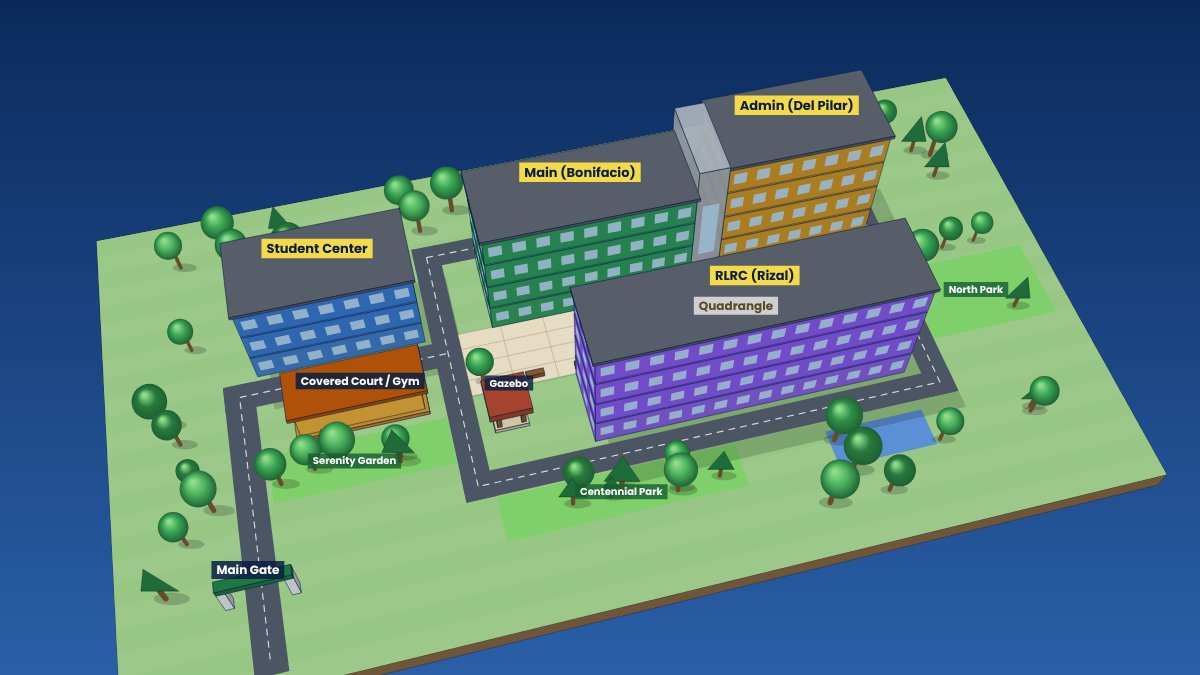
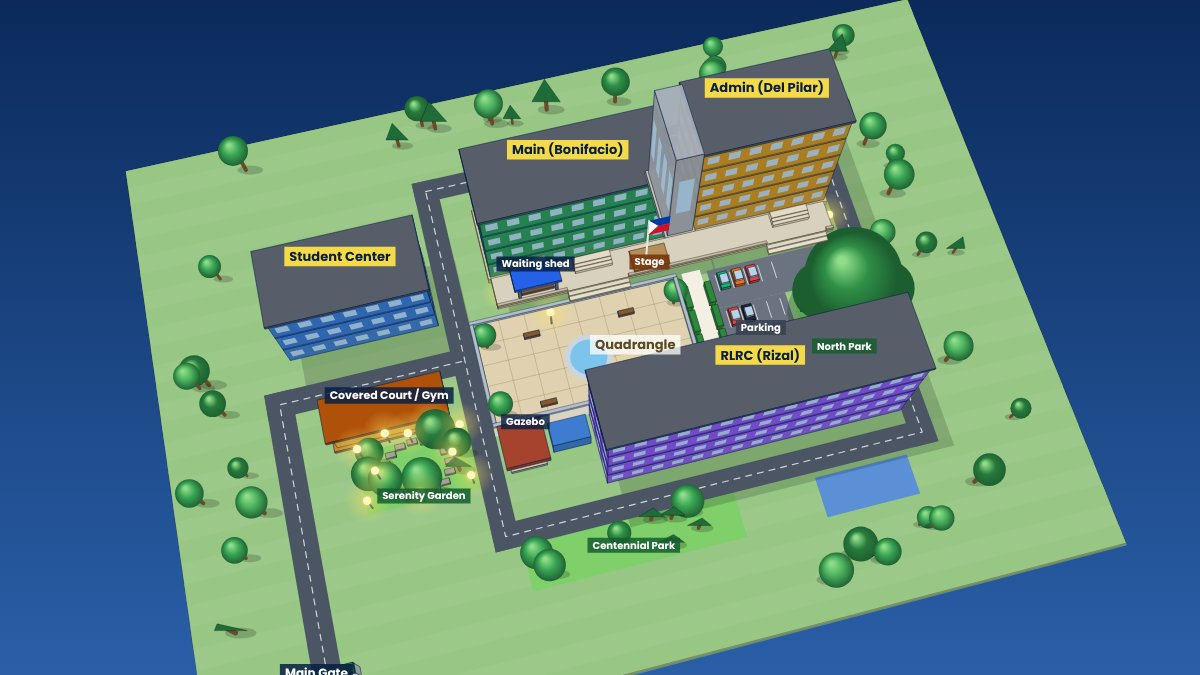
map updated

diff --git a/PLMUN Go/map3d.html b/PLMUN Go/map3d.html
@@ -84,13 +84,14 @@
        x = east, z = south. The main gate is at the bottom-left. Change a number to move or resize a building. */
     var G = {
       mabini:    { x0: 9,  x1: 26, z0: 24, z1: 32.5, floors: 3, color: '#3b7dd8', mode: 'north', label: 'Student Center' },
-      bonifacio: { x0: 33, x1: 54, z0: 24, z1: 32.5, floors: 4, color: '#2f9e63', mode: 'two',   label: 'Main (Bonifacio)' },
-      delpilar:  { x0: 57, x1: 73, z0: 24, z1: 32.5, floors: 5, color: '#d19a2a', mode: 'two',   label: 'Admin (Del Pilar)' },
+      bonifacio: { x0: 33, x1: 54, z0: 20, z1: 28.5, floors: 4, color: '#2f9e63', mode: 'two',   label: 'Main (Bonifacio)' },
+      delpilar:  { x0: 57, x1: 73, z0: 20, z1: 28.5, floors: 5, color: '#d19a2a', mode: 'two',   label: 'Admin (Del Pilar)' },
       rizal:     { x0: 40, x1: 73.5, z0: 47, z1: 55,   floors: 4, color: '#8b5cf6', mode: 'south', label: 'RLRC (Rizal)', flip: true }
     };
     var ORDER = ['mabini', 'bonifacio', 'delpilar', 'rizal'];
     var NAMES = { mabini: 'Student Center', bonifacio: 'Main (Bonifacio)', delpilar: 'Admin (Del Pilar)', rizal: 'RLRC (Rizal)' };
-    var WZ = 37.4, QZ = 34.2, RZ = 46.2, GATE = { x: 7, z: 68 };   // road in the west pocket, walkway in front of Main/Admin, walkway in front of the RLRC
+    var BASEY = { mabini: 0, bonifacio: 0.9, delpilar: 0.9, rizal: 0 };   // Main and Admin stand a little higher than the rest
+    var WZ = 37.4, QZ = 33.7, RZ = 46.2, GATE = { x: 7, z: 68 };   // road in the west pocket, walkway in front of Main/Admin, walkway in front of the RLRC
 
     function rowDepth(g) { return 3; }
     // rectangle of one cell on a floor plan
@@ -111,7 +112,7 @@
     }
 
     /* ===== 2. camera ===== */
-    var cam = { yaw: 0.25, pitch: 1.22, dist: 138, tx: 43, ty: 0, tz: 43 }, goal = null;
+    var cam = { yaw: 0.25, pitch: 1.22, dist: 142, tx: 43, ty: 0, tz: 40 }, goal = null;
     var W = 0, Hh = 0, dpr = 1, FOV = 1, CX = 0, CY = 0;
     function resize() {
       dpr = Math.min(window.devicePixelRatio || 1, 2);
@@ -234,9 +235,9 @@
     var TREES = (function () {
       var out = [], id = 1;
       function scatter(x0, x1, z0, z1, n) { for (var i = 0; i < n; i++) { id++; out.push({ x: x0 + rnd(id) * (x1 - x0), z: z0 + rnd(id + 99) * (z1 - z0), h: 3.6 + rnd(id + 7) * 2.6, pine: rnd(id + 3) > 0.7, c: Math.floor(rnd(id + 11) * 4) }); } }
-      scatter(-3, 4.2, 22, 70, 8);         // west edge
-      scatter(2, 86, 14.5, 20, 16);        // behind the buildings
-      scatter(77, 88, 20, 70, 10);         // east side
+      scatter(-3, 4.2, 12, 70, 9);         // west edge
+      scatter(2, 86, 6, 12.5, 16);        // behind the buildings
+      scatter(77, 88, 10, 70, 10);         // east side
       scatter(30, 52, 60, 64, 8);          // Centennial Park
       scatter(56, 76, 66, 71, 6);
       // Serenity Garden: lots of trees around the stone seats
@@ -244,7 +245,7 @@
       // quadrangle corners
       [[30.8, 36.4], [30.8, 44.6], [52.6, 36.4], [52.6, 44.6]].forEach(function (p) { id++; out.push({ x: p[0], z: p[1], h: 4.4, pine: false, c: 1 }); });
       // the BIG shade tree of North Park
-      out.push({ x: 69.8, z: 40.6, h: 12.5, pine: false, c: 0, big: true });
+      out.push({ x: 69.8, z: 42.2, h: 12.5, pine: false, c: 0, big: true });
       return out;
     })();
     var CANOPY = ['#2f8f46', '#3aa655', '#287a3c', '#4db35f'];
@@ -276,14 +277,14 @@
       else flat(Math.min(x0, x1) - h, Math.max(x0, x1) + h, z0 - h, z0 + h, 0.05, '#4b5563');
     }
     // sunken quadrangle
-    var QUAD = { x0: 29.8, x1: 53.4, z0: 35.4, z1: 45.4 };
+    var QUAD = { x0: 29.8, x1: 53.4, z0: 33.4, z1: 45.4 };
     function drawGround() {
-      drawBox(-6, 92, -2.2, 0, 11, 75, '#8b6b4a', 1, { stroke: 'rgba(0,0,0,.25)' });
-      flat(-6, 92, 11, 75, 0, '#9cc98a');
-      for (var i = 0; i < 14; i++) flat(-6, 92, 11 + i * 4.6, 13.3 + i * 4.6, 0.01, '#94c382', 0.55);
+      drawBox(-6, 92, -2.2, 0, 4, 75, '#8b6b4a', 1, { stroke: 'rgba(0,0,0,.25)' });
+      flat(-6, 92, 4, 75, 0, '#9cc98a');
+      for (var i = 0; i < 16; i++) flat(-6, 92, 4 + i * 4.6, 6.3 + i * 4.6, 0.01, '#94c382', 0.55);
       // parks / gardens
       flat(14.2, 26.6, 45, 52, 0.03, '#7fcf6a');                 // Serenity Garden
-      flat(66, 73.6, 35.6, 46, 0.03, '#79cf64');                 // North Park
+      flat(66, 73.6, 38.4, 46.2, 0.03, '#79cf64');               // North Park
       flat(29.5, 53, 59.4, 64.4, 0.03, '#7fcf6a');               // Centennial Park
       flat(62, 72.5, 60, 64.5, 0.04, '#5b8fd6');
       // building shadows
@@ -291,22 +292,21 @@
       // ring road (as on the university map)
       roadSeg(7, 70, 7, WZ, 3);
       roadSeg(7, WZ, 28, WZ, 3);
-      roadSeg(28, 22, 28, 58, 2.8);
-      roadSeg(28, 22, 75, 22, 2.8);
-      roadSeg(75, 22, 75, 58, 2.8);
+      roadSeg(28, 15.5, 28, 58, 2.8);
+      roadSeg(28, 15.5, 75, 15.5, 2.8);
+      roadSeg(75, 15.5, 75, 58, 2.8);
       roadSeg(28, 58, 75, 58, 2.8);
-      [[[7, 70], [7, WZ], [28, WZ]], [[28, 22], [75, 22], [75, 58], [28, 58], [28, 22]]].forEach(function (p) {
+      [[[7, 70], [7, WZ], [28, WZ]], [[28, 15.5], [75, 15.5], [75, 58], [28, 58], [28, 15.5]]].forEach(function (p) {
         ctx.setLineDash([6, 6]); stroke3(p, 'rgba(255,255,255,.75)', 1.2, 0.06); ctx.setLineDash([]);
       });
-      // walkways in front of Main/Admin and in front of the RLRC
-      flat(29.4, 73.6, 32.5, QUAD.z0, 0.06, '#d9d3c3');
+      // walkway in front of the RLRC
       flat(29.4, 73.6, QUAD.z1, 46.9, 0.06, '#d9d3c3');
-      // parking lot in front of Del Pilar (employees' cars)
-      flat(57.4, 73.6, 32.5, 35.4, 0.07, '#6b7280');
-      flat(57.4, 65.4, 35.4, 46, 0.07, '#6b7280');
+      // parking lot in front of Del Pilar (employees' cars): at the SAME low level as the quadrangle
+      flat(57.4, 73.6, 33.4, 38.2, -0.3, '#6b7280');
+      flat(57.4, 65.4, 38.2, 46, -0.3, '#6b7280');
       ctx.strokeStyle = 'rgba(255,255,255,.7)'; ctx.lineWidth = 1;
-      for (var px = 58.2; px < 65.3; px += 1.6) { var a1 = proj(px, 0.08, 36.4), a2 = proj(px, 0.08, 38.4); ctx.beginPath(); ctx.moveTo(a1.x, a1.y); ctx.lineTo(a2.x, a2.y); ctx.stroke(); var c1 = proj(px, 0.08, 42.6), c2 = proj(px, 0.08, 44.6); ctx.beginPath(); ctx.moveTo(c1.x, c1.y); ctx.lineTo(c2.x, c2.y); ctx.stroke(); }
-      for (var qx = 58.4; qx < 73.5; qx += 1.7) { if (qx > 66.2 && qx < 71) continue; var b1 = proj(qx, 0.08, 33.0), b2 = proj(qx, 0.08, 34.7); ctx.beginPath(); ctx.moveTo(b1.x, b1.y); ctx.lineTo(b2.x, b2.y); ctx.stroke(); }
+      for (var px = 58.2; px < 65.3; px += 1.6) { var c1 = proj(px, -0.28, 38.8), c2 = proj(px, -0.28, 40.8); ctx.beginPath(); ctx.moveTo(c1.x, c1.y); ctx.lineTo(c2.x, c2.y); ctx.stroke(); var d1 = proj(px, -0.28, 42.8), d2 = proj(px, -0.28, 44.8); ctx.beginPath(); ctx.moveTo(d1.x, d1.y); ctx.lineTo(d2.x, d2.y); ctx.stroke(); }
+      for (var qx = 58.2; qx < 73.5; qx += 1.7) { if (qx > 65.8 && qx < 71.4) continue; var b1 = proj(qx, -0.28, 34.2), b2 = proj(qx, -0.28, 36.2); ctx.beginPath(); ctx.moveTo(b1.x, b1.y); ctx.lineTo(b2.x, b2.y); ctx.stroke(); }
       // the QUADRANGLE: big, paved and LOWER than the walkways around it
       var qb = QUAD, cu = '#cbd5e1';
       flat(qb.x0, qb.x1, qb.z0, qb.z1, -0.3, '#e0d2b0');
@@ -314,7 +314,7 @@
       for (var x = qb.x0; x <= qb.x1 + 0.1; x += 2.95) { var p1 = proj(x, -0.28, qb.z0), p2 = proj(x, -0.28, qb.z1); ctx.beginPath(); ctx.moveTo(p1.x, p1.y); ctx.lineTo(p2.x, p2.y); ctx.stroke(); }
       for (var z = qb.z0; z <= qb.z1 + 0.1; z += 2.5) { var q1 = proj(qb.x0, -0.28, z), q2 = proj(qb.x1, -0.28, z); ctx.beginPath(); ctx.moveTo(q1.x, q1.y); ctx.lineTo(q2.x, q2.y); ctx.stroke(); }
       // the walkway to the RLRC through the gap between Main and Admin
-      flat(54.4, 56.6, 32.5, 46.9, 0.08, '#f3efe3');
+      flat(54.4, 56.6, 33.2, 46.9, 0.08, '#f3efe3');
       // fountain
       var fc = [41.6, 40.4], ring = [], ring2 = [];
       for (var k = 0; k < 24; k++) { var an = k / 24 * 6.2832; ring.push([fc[0] + Math.cos(an) * 2.7, fc[1] + Math.sin(an) * 2.7]); ring2.push([fc[0] + Math.cos(an) * 2.1, fc[1] + Math.sin(an) * 2.1]); }
@@ -323,8 +323,8 @@
       var qp = proj(47, 0, 40.4); labels.push({ t: 'Quadrangle', x: qp.x, y: qp.y, s: 13, c: '#5b4a22', bg: 'rgba(255,255,255,.75)' });
       var sp = proj(20.4, 0.1, 51.6); labels.push({ t: 'Serenity Garden', x: sp.x, y: sp.y, s: 10, c: '#fff', bg: 'rgba(21,94,47,.85)' });
       var cp2 = proj(41, 0.1, 62.4); labels.push({ t: 'Centennial Park', x: cp2.x, y: cp2.y, s: 10, c: '#fff', bg: 'rgba(21,94,47,.85)' });
-      var np = proj(69.8, 0.1, 45.4); labels.push({ t: 'North Park', x: np.x, y: np.y, s: 10, c: '#fff', bg: 'rgba(21,94,47,.85)' });
-      var pk = proj(61.4, 0.1, 40.6); labels.push({ t: 'Parking', x: pk.x, y: pk.y, s: 10, c: '#fff', bg: 'rgba(55,65,81,.85)' });
+      var np = proj(69.8, 0.1, 46.4); labels.push({ t: 'North Park', x: np.x, y: np.y, s: 10, c: '#fff', bg: 'rgba(21,94,47,.85)' });
+      var pk = proj(61.4, -0.2, 41.8); labels.push({ t: 'Parking', x: pk.x, y: pk.y, s: 10, c: '#fff', bg: 'rgba(55,65,81,.85)' });
     }
     function curbs() {              // the low walls that make the quadrangle look sunken
       var q = QUAD, c = '#b8c2cf';
@@ -360,43 +360,58 @@
       drawBox(35.2, 39.4, 0, 2.6, 47.6, 50.2, '#3f7fd6', 1, { stroke: 'rgba(8,30,66,.5)' });     // the small building next to the Gazebo
       labels.push({ t: 'Gazebo', x: gz.x, y: gz.y - 28, s: 10, c: '#fff', bg: 'rgba(8,30,66,.8)' });
     }
-    function drawStrip() { drawBox(54, 57, 0, 5 * H, 24, 32.5, '#aab2bd', route ? .25 : .95, { windows: !route }); }
+    function drawStrip() { drawBox(53.7, 57.3, 0, 0.9, 19.7, 28.8, '#cfc6b0', route ? 0.35 : 1); drawBox(54, 57, 0.9, 0.9 + 5 * H, 20, 28.5, '#aab2bd', route ? .25 : .95, { windows: !route }); }
 
-    // a raised landing with three levels (two steps up): used for the stage of Mabini and the entrance of Del Pilar
-    function drawSteps(x0, x1, z0, depth, label) {
-      var s1 = drawBox(x0, x1, 0, 0.6, z0, z0 + depth, '#c9b48a', 1, { stroke: 'rgba(60,40,10,.5)' });
-      drawBox(x0, x1, 0, 0.4, z0 + depth, z0 + depth + 0.7, '#d6c6a2', 1, { stroke: 'rgba(60,40,10,.5)' });
-      drawBox(x0, x1, 0, 0.2, z0 + depth + 0.7, z0 + depth + 1.4, '#e4d8bc', 1, { stroke: 'rgba(60,40,10,.5)' });
-      if (label) labels.push({ t: label, x: s1.x, y: s1.y - 4, s: 10, c: '#fff', bg: 'rgba(120,53,15,.85)' });
-    }
-    function drawMabiniStage() {
-      drawSteps(11, 24, 32.5, 2.4, 'Stage');
-      // the Philippine flag in front of Mabini
-      var base = proj(21.8, 0.6, 33.6), top = proj(21.8, 9.6, 33.6), a = proj(24.2, 9.6, 33.6), b = proj(24.2, 7.8, 33.6), c = proj(24.2, 6.0, 33.6), d = proj(21.8, 6.0, 33.6), m = proj(21.8, 7.8, 33.6), tr = proj(22.9, 7.8, 33.6);
+    function flag(x, z, y0) {
+      var base = proj(x, y0, z), top = proj(x, y0 + 9, z), a = proj(x + 2.4, y0 + 9, z), b = proj(x + 2.4, y0 + 7.2, z), c = proj(x + 2.4, y0 + 5.4, z), d = proj(x, y0 + 5.4, z), m = proj(x, y0 + 7.2, z), tr = proj(x + 1.1, y0 + 7.2, z);
       ctx.beginPath(); ctx.moveTo(base.x, base.y); ctx.lineTo(top.x, top.y); ctx.strokeStyle = '#e5e7eb'; ctx.lineWidth = 2; ctx.stroke();
       ctx.beginPath(); ctx.moveTo(top.x, top.y); ctx.lineTo(a.x, a.y); ctx.lineTo(b.x, b.y); ctx.lineTo(m.x, m.y); ctx.closePath(); ctx.fillStyle = '#0038a8'; ctx.fill();
       ctx.beginPath(); ctx.moveTo(m.x, m.y); ctx.lineTo(b.x, b.y); ctx.lineTo(c.x, c.y); ctx.lineTo(d.x, d.y); ctx.closePath(); ctx.fillStyle = '#ce1126'; ctx.fill();
       ctx.beginPath(); ctx.moveTo(top.x, top.y); ctx.lineTo(tr.x, tr.y); ctx.lineTo(d.x, d.y); ctx.closePath(); ctx.fillStyle = '#ffffff'; ctx.fill();
     }
-    function drawDelPilarSteps() { var dx = doorsX('delpilar'); drawSteps(dx - 2.6, dx + 2.6, 32.5, 1.2, null); }
+    // In front of Main + Admin (back to front):  entrance -> 3 small steps -> covered hallway -> steps down -> quadrangle
+    function drawTerrace() {
+      var T = 0.45, ZF = 32.2, d1 = doorsX('bonifacio'), d2 = doorsX('delpilar'), line = 'rgba(60,50,30,.45)';
+      drawBox(33, 73, 0, T, 28.5, ZF, '#ddd5c2', 1, { stroke: line });                         // the hallway (a little lower than the buildings)
+      [d1, d2].forEach(function (dx) {
+        drawBox(dx - 2.2, dx + 2.2, 0, 0.9, 28.5, 29.3, '#e8e0cc', 1, { stroke: line });       // 3 small steps up to the entrance
+        drawBox(dx - 2.2, dx + 2.2, 0, 0.75, 29.3, 29.7, '#e8e0cc', 1, { stroke: line });
+        drawBox(dx - 2.2, dx + 2.2, 0, 0.6, 29.7, 30.1, '#e8e0cc', 1, { stroke: line });
+        drawBox(dx - 3.6, dx + 3.6, -0.3, 0.2, ZF, ZF + 0.5, '#e4dcc8', 1, { stroke: line });  // steps down to the quadrangle
+        drawBox(dx - 3.6, dx + 3.6, -0.3, -0.05, ZF + 0.5, ZF + 1.0, '#ece5d3', 1, { stroke: line });
+      });
+      // low ledge along the front of the hallway (open where the stairs are)
+      [[33, d1 - 3.6], [d1 + 3.6, d2 - 3.6], [d2 + 3.6, 73]].forEach(function (r) { if (r[1] > r[0]) drawBox(r[0], r[1], T, T + 0.4, ZF - 0.3, ZF, '#c9c1ad', 1, { stroke: line }); });
+      // waiting shed in front of Bonifacio, beside the entrance
+      var sx0 = d1 - 9.2, sx1 = d1 - 4.6, sz0 = 29.9, sz1 = 31.7;
+      [[sx0, sz0], [sx1 - 0.3, sz0], [sx0, sz1 - 0.3], [sx1 - 0.3, sz1 - 0.3]].forEach(function (p) { drawBox(p[0], p[0] + 0.3, T, T + 2.9, p[1], p[1] + 0.3, '#6b7280', 1); });
+      drawBox(sx0 + 0.4, sx1 - 0.4, T + 0.0, T + 0.5, sz1 - 0.55, sz1 - 0.25, '#8b5a2b', 1);                      // bench
+      var roof = drawBox(sx0 - 0.4, sx1 + 0.4, T + 2.9, T + 3.3, sz0 - 0.5, sz1 + 0.4, '#2563eb', 1, { stroke: 'rgba(8,30,66,.55)' });
+      labels.push({ t: 'Waiting shed', x: roof.x, y: roof.y - 10, s: 10, c: '#fff', bg: 'rgba(8,30,66,.85)' });
+      // the stage + the Philippine flag, in front of Bonifacio
+      var st = drawBox(d1 + 4.4, 53.4, T, T + 0.3, 29.2, ZF - 0.4, '#b8905a', 1, { stroke: 'rgba(60,40,10,.55)' });
+      flag(d1 + 6.2, 30.2, T + 0.3);
+      labels.push({ t: 'Stage', x: st.x, y: st.y + 6, s: 10, c: '#fff', bg: 'rgba(120,53,15,.9)' });
+    }
 
     // cars in the parking lot
     var CARS = (function () {
       var cols = ['#ef4444', '#f8fafc', '#1e293b', '#3b82f6', '#facc15', '#9ca3af', '#10b981', '#f97316'], out = [], i = 0;
-      for (var x = 58.9; x < 65.2; x += 1.6) { if (rnd(x * 3) > 0.35) out.push({ x: x, z: 37.5, c: cols[(i++) % cols.length], v: true }); if (rnd(x * 5) > 0.4) out.push({ x: x, z: 43.6, c: cols[(i++) % cols.length], v: true }); }
-      for (var y = 58.9; y < 73.4; y += 1.7) { if (y > 66.2 && y < 71) continue; if (rnd(y * 7) > 0.3) out.push({ x: y, z: 33.9, c: cols[(i++) % cols.length], v: true }); }
+      for (var x = 58.9; x < 65.2; x += 1.6) { if (rnd(x * 3) > 0.35) out.push({ x: x, z: 39.8, c: cols[(i++) % cols.length] }); if (rnd(x * 5) > 0.4) out.push({ x: x, z: 43.8, c: cols[(i++) % cols.length] }); }
+      for (var y = 58.9; y < 73.4; y += 1.7) { if (y > 65.6 && y < 71.6) continue; if (rnd(y * 7) > 0.3) out.push({ x: y, z: 35.2, c: cols[(i++) % cols.length] }); }
       return out;
     })();
     function drawCar(c) {
-      drawBox(c.x - 0.55, c.x + 0.55, 0.15, 0.7, c.z - 1.0, c.z + 1.0, c.c, 1, { stroke: 'rgba(0,0,0,.45)' });
-      drawBox(c.x - 0.45, c.x + 0.45, 0.7, 1.15, c.z - 0.55, c.z + 0.55, '#bcd6ee', 1, { stroke: 'rgba(0,0,0,.4)' });
+      var L0 = -0.3;       // the lot is as low as the quadrangle
+      drawBox(c.x - 0.55, c.x + 0.55, L0 + 0.15, L0 + 0.7, c.z - 1.0, c.z + 1.0, c.c, 1, { stroke: 'rgba(0,0,0,.45)' });
+      drawBox(c.x - 0.45, c.x + 0.45, L0 + 0.7, L0 + 1.15, c.z - 0.55, c.z + 0.55, '#bcd6ee', 1, { stroke: 'rgba(0,0,0,.4)' });
     }
     // hedges along the pathway to the RLRC
     var HEDGES = (function () { var o = []; [[35.2, 37.8], [38.2, 40.8], [41.2, 43.8], [44.2, 46.2]].forEach(function (r) { o.push([53.8, 54.5, r[0], r[1]]); o.push([56.5, 57.2, r[0], r[1]]); }); return o; })();
     function drawHedge(h) { drawBox(h[0], h[1], 0, 1.05, h[2], h[3], '#2f8a3e', 1, { stroke: 'rgba(10,50,20,.55)' }); }
 
     // North Park: lunch tables and seats in the shade of the big tree
-    var TABLES = [[66.8, 38.2], [72.6, 38.2], [66.8, 43.2], [72.6, 43.2], [69.8, 36.6], [69.8, 44.4]];
+    var TABLES = [[67.2, 40.2], [72.4, 40.2], [67.2, 44.4], [72.4, 44.4], [69.8, 38.9]];
     function drawTable(t) {
       drawBox(t[0] - 0.9, t[0] + 0.9, 0.7, 0.85, t[1] - 0.45, t[1] + 0.45, '#a16207', 1, { stroke: 'rgba(0,0,0,.4)' });
       drawBox(t[0] - 0.8, t[0] - 0.7, 0, 0.7, t[1] - 0.3, t[1] + 0.3, '#6b4a2b', 1);
@@ -407,7 +422,7 @@
     // Serenity Garden: ring of stone seats + lamps
     var SEATS = (function () { var o = []; for (var k = 0; k < 16; k++) { if (k === 4) continue; var an = k / 16 * 6.2832; o.push([20.4 + Math.cos(an) * 3.6, 48.4 + Math.sin(an) * 3.1]); } return o; })();
     function drawStoneSeat(p) { drawBox(p[0] - 0.55, p[0] + 0.55, 0, 0.5, p[1] - 0.3, p[1] + 0.3, '#a8a29e', 1, { stroke: 'rgba(0,0,0,.35)' }); }
-    var LAMPS = [[14.8, 45.6], [26, 45.6], [14.8, 51.4], [26, 51.4], [20.4, 45.2], [20.4, 52], [16.2, 48.4], [24.6, 48.4], [18, 44.6], [23, 44.6], [38.5, 36.2], [45, 44.6], [60.8, 46.4]];
+    var LAMPS = [[14.8, 45.6], [26, 45.6], [14.8, 51.4], [26, 51.4], [20.4, 45.2], [20.4, 52], [16.2, 48.4], [24.6, 48.4], [18, 44.6], [23, 44.6], [38.5, 35.4], [45, 44.6], [60.8, 46.4], [34, 31.6], [72.2, 31.6]];
     function drawLamp(p) {
       var b = proj(p[0], 0, p[1]), t = proj(p[0], 3.4, p[1]), r = FOV * 0.5 / b.d;
       ctx.beginPath(); ctx.moveTo(b.x, b.y); ctx.lineTo(t.x, t.y); ctx.strokeStyle = '#374151'; ctx.lineWidth = 2; ctx.stroke();
@@ -419,9 +434,10 @@
 
     function drawBuilding(bk) {
       var g = G[bk], fl = floorsOf(bk), top = null;
+      if (BASEY[bk]) drawBox(g.x0 - 0.3, g.x1 + 0.3, 0, BASEY[bk], g.z0 - 0.3, g.z1 + 0.3, '#cfc6b0', route ? 0.35 : 1, { stroke: 'rgba(60,50,30,.4)' });
       fl.forEach(function (f) {
         var m = floorMode(bk, f); if (m === 'hidden') return;
-        var y0 = (f - 1) * H, y1 = y0 + H - 0.2;
+        var y0 = (f - 1) * H + BASEY[bk], y1 = y0 + H - 0.2;
         var alpha = { solid: 0.93, dim: 0.16, ghost: 0.2, below: 0.3, rooms: 1 }[m];
         if (m === 'rooms') {
           drawBox(g.x0, g.x1, y0, y0 + 0.3, g.z0, g.z1, '#e8e4d8', 1, { stroke: 'rgba(8,30,66,.5)' });
@@ -465,7 +481,7 @@
     function BY(bk, f, n) { return L.BY_KEY[bk + '|' + f + '|' + n] || null; }
 
     /* ===== 6. the route in 3D ===== */
-    function P(x, z, f) { return { x: x, y: (f - 1) * H + 1.0, z: z }; }
+    function P(x, z, f) { var hi = x > 33 && x < 73.6 && z > 19.5 && z < 28.7; return { x: x, y: (f - 1) * H + 1.0 + (hi ? 0.9 : 0), z: z }; }
     function cellCenter(bk, f, row, idx) {
       var arr = BLD[bk].floors[f][row], r = cellRect(bk, row, idx, arr.length);
       return { x: (r.x0 + r.x1) / 2, z: (r.z0 + r.z1) / 2 };
@@ -616,8 +632,7 @@
       items.push({ d: proj(GATE.x, 0, GATE.z).d, f: drawGate });
       items.push({ d: proj(18.5, 0, 42).d, f: drawCourt });
       items.push({ d: proj(32.5, 0, 49.5).d, f: drawGazebo });
-      items.push({ d: proj(17.5, 0, 34).d, f: drawMabiniStage });
-      items.push({ d: proj(doorsX('delpilar'), 0, 33).d, f: drawDelPilarSteps });
+      items.push({ d: proj(53, 0, 30.5).d - 6, f: drawTerrace });
       items.push({ d: proj(41, 0, 40).d, f: drawQuadProps });
       CARS.forEach(function (c) { items.push({ d: proj(c.x, 0, c.z).d, f: function () { drawCar(c); } }); });
       HEDGES.forEach(function (h) { items.push({ d: proj((h[0] + h[1]) / 2, 0, (h[2] + h[3]) / 2).d, f: function () { drawHedge(h); } }); });
@@ -705,7 +720,7 @@
     }
     function setFocus(k) {
       focus = k; floorSel = null; route = null; $('steps').innerHTML = ''; $('info').style.display = 'none'; selRoom = null; chips();
-      if (!k) fly({ tx: 43, tz: 43, dist: 138, yaw: 0.25, pitch: 1.22 });
+      if (!k) fly({ tx: 43, tz: 40, dist: 142, yaw: 0.25, pitch: 1.22 });
       else { var g = G[k]; fly({ tx: (g.x0 + g.x1) / 2, ty: 3, tz: (g.z0 + g.z1) / 2, dist: Math.max(34, (g.x1 - g.x0) * 1.5), yaw: 0.2, pitch: 0.95 }); }
     }
     function fill(sel) {
